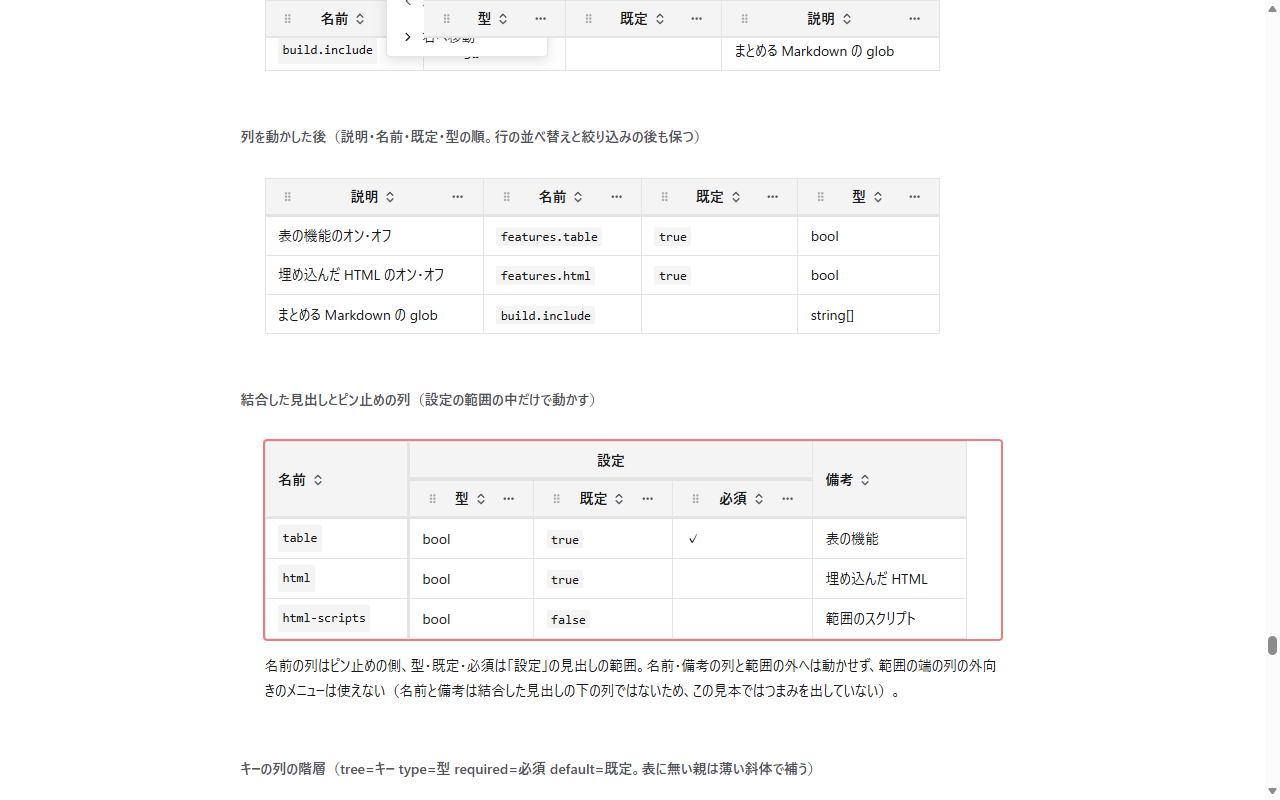
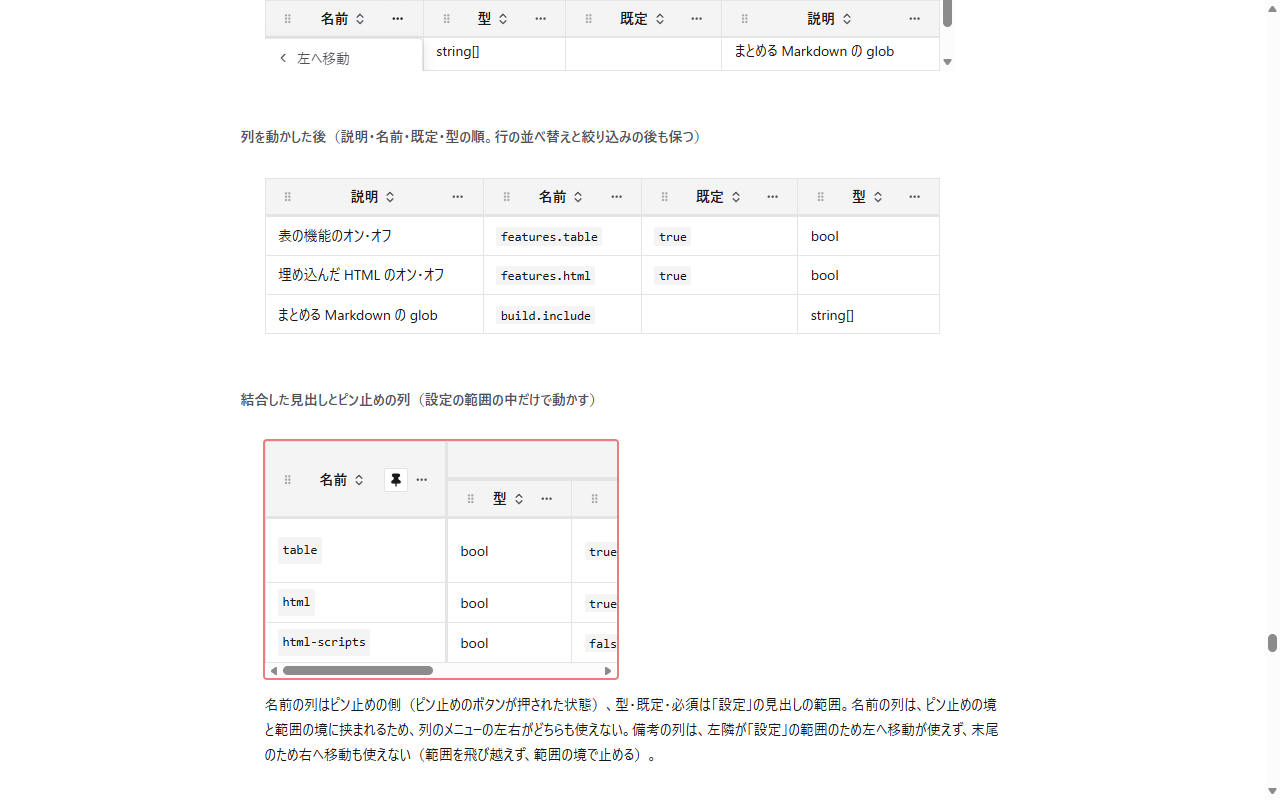
mock: 結合した見出しの外の列のメニュー・見本を表の下に置く・見本の切り替えの文言を修正する (#303)

diff --git a/dev/mock/components/table/index.html b/dev/mock/components/table/index.html
@@ -1339,17 +1339,17 @@
       <section aria-labelledby="state-303-reorder-groups">
         <h2 class="catalog-label" id="state-303-reorder-groups">結合した見出しとピン止めの列（設定の範囲の中だけで動かす）</h2>
         <article class="mdmark">
-<div class="mdmark-table" data-kind="data" data-reorder>
+<div class="mdmark-table" data-kind="data" data-reorder style="max-inline-size: 22rem;">
   <table tabindex="0" aria-label="表: 結合した見出しとピン止め">
-    <thead><tr><th rowspan="2" data-pinned="true" class="is-pinned-col is-pinned-edge"><span class="mdmark-th"><button class="mdmark-sort" type="button">名前<svg class="mdmark-icon" viewBox="0 0 24 24" aria-hidden="true"><path d="m7 15 5 5 5-5"/><path d="m7 9 5-5 5 5"/></svg></button></span></th><th colspan="3" scope="colgroup">設定</th><th rowspan="2"><span class="mdmark-th"><button class="mdmark-sort" type="button">備考<svg class="mdmark-icon" viewBox="0 0 24 24" aria-hidden="true"><path d="m7 15 5 5 5-5"/><path d="m7 9 5-5 5 5"/></svg></button></span></th></tr><tr><th data-group="設定"><span class="mdmark-th"><button class="mdmark-col-grip" type="button" aria-label="「型」の列を動かす" title="ドラッグで列を動かす"><svg class="mdmark-icon" viewBox="0 0 24 24" aria-hidden="true"><circle cx="9" cy="6" r="1"/><circle cx="15" cy="6" r="1"/><circle cx="9" cy="12" r="1"/><circle cx="15" cy="12" r="1"/><circle cx="9" cy="18" r="1"/><circle cx="15" cy="18" r="1"/></svg></button><button class="mdmark-sort" type="button">型<svg class="mdmark-icon" viewBox="0 0 24 24" aria-hidden="true"><path d="m7 15 5 5 5-5"/><path d="m7 9 5-5 5 5"/></svg></button><span class="mdmark-th-tools"><button class="mdmark-col-menu-toggle" type="button" aria-haspopup="menu" aria-expanded="false" aria-label="「型」の列のメニュー"><svg class="mdmark-icon" viewBox="0 0 24 24" aria-hidden="true"><circle cx="5" cy="12" r="1"/><circle cx="12" cy="12" r="1"/><circle cx="19" cy="12" r="1"/></svg></button><ul class="mdmark-col-menu" role="menu" hidden><li role="none"><button type="button" role="menuitem" data-move="left" disabled><svg class="mdmark-icon" viewBox="0 0 24 24" aria-hidden="true"><path d="m15 18-6-6 6-6"/></svg>左へ移動</button></li><li role="none"><button type="button" role="menuitem" data-move="right"><svg class="mdmark-icon" viewBox="0 0 24 24" aria-hidden="true"><path d="m9 18 6-6-6-6"/></svg>右へ移動</button></li></ul></span></span></th><th data-group="設定"><span class="mdmark-th"><button class="mdmark-col-grip" type="button" aria-label="「既定」の列を動かす" title="ドラッグで列を動かす"><svg class="mdmark-icon" viewBox="0 0 24 24" aria-hidden="true"><circle cx="9" cy="6" r="1"/><circle cx="15" cy="6" r="1"/><circle cx="9" cy="12" r="1"/><circle cx="15" cy="12" r="1"/><circle cx="9" cy="18" r="1"/><circle cx="15" cy="18" r="1"/></svg></button><button class="mdmark-sort" type="button">既定<svg class="mdmark-icon" viewBox="0 0 24 24" aria-hidden="true"><path d="m7 15 5 5 5-5"/><path d="m7 9 5-5 5 5"/></svg></button><span class="mdmark-th-tools"><button class="mdmark-col-menu-toggle" type="button" aria-haspopup="menu" aria-expanded="false" aria-label="「既定」の列のメニュー"><svg class="mdmark-icon" viewBox="0 0 24 24" aria-hidden="true"><circle cx="5" cy="12" r="1"/><circle cx="12" cy="12" r="1"/><circle cx="19" cy="12" r="1"/></svg></button><ul class="mdmark-col-menu" role="menu" hidden><li role="none"><button type="button" role="menuitem" data-move="left"><svg class="mdmark-icon" viewBox="0 0 24 24" aria-hidden="true"><path d="m15 18-6-6 6-6"/></svg>左へ移動</button></li><li role="none"><button type="button" role="menuitem" data-move="right"><svg class="mdmark-icon" viewBox="0 0 24 24" aria-hidden="true"><path d="m9 18 6-6-6-6"/></svg>右へ移動</button></li></ul></span></span></th><th data-group="設定"><span class="mdmark-th"><button class="mdmark-col-grip" type="button" aria-label="「必須」の列を動かす" title="ドラッグで列を動かす"><svg class="mdmark-icon" viewBox="0 0 24 24" aria-hidden="true"><circle cx="9" cy="6" r="1"/><circle cx="15" cy="6" r="1"/><circle cx="9" cy="12" r="1"/><circle cx="15" cy="12" r="1"/><circle cx="9" cy="18" r="1"/><circle cx="15" cy="18" r="1"/></svg></button><button class="mdmark-sort" type="button">必須<svg class="mdmark-icon" viewBox="0 0 24 24" aria-hidden="true"><path d="m7 15 5 5 5-5"/><path d="m7 9 5-5 5 5"/></svg></button><span class="mdmark-th-tools"><button class="mdmark-col-menu-toggle" type="button" aria-haspopup="menu" aria-expanded="false" aria-label="「必須」の列のメニュー"><svg class="mdmark-icon" viewBox="0 0 24 24" aria-hidden="true"><circle cx="5" cy="12" r="1"/><circle cx="12" cy="12" r="1"/><circle cx="19" cy="12" r="1"/></svg></button><ul class="mdmark-col-menu" role="menu" hidden><li role="none"><button type="button" role="menuitem" data-move="left"><svg class="mdmark-icon" viewBox="0 0 24 24" aria-hidden="true"><path d="m15 18-6-6 6-6"/></svg>左へ移動</button></li><li role="none"><button type="button" role="menuitem" data-move="right" disabled><svg class="mdmark-icon" viewBox="0 0 24 24" aria-hidden="true"><path d="m9 18 6-6-6-6"/></svg>右へ移動</button></li></ul></span></span></th></tr></thead>
+    <thead><tr><th rowspan="2" data-pinned="true" class="is-pinned-col is-pinned-edge"><span class="mdmark-th"><button class="mdmark-col-grip" type="button" aria-label="「名前」の列を動かす" title="ドラッグで列を動かす"><svg class="mdmark-icon" viewBox="0 0 24 24" aria-hidden="true"><circle cx="9" cy="6" r="1"/><circle cx="15" cy="6" r="1"/><circle cx="9" cy="12" r="1"/><circle cx="15" cy="12" r="1"/><circle cx="9" cy="18" r="1"/><circle cx="15" cy="18" r="1"/></svg></button><button class="mdmark-sort" type="button">名前<svg class="mdmark-icon" viewBox="0 0 24 24" aria-hidden="true"><path d="m7 15 5 5 5-5"/><path d="m7 9 5-5 5 5"/></svg></button><span class="mdmark-th-tools"><button class="mdmark-pin" type="button" aria-pressed="true" aria-label="「名前」の列までピン止め" title="「名前」の列までピン止め"><svg class="mdmark-icon" viewBox="0 0 24 24" aria-hidden="true"><path d="M12 17v5"/><path d="M9 10.76a2 2 0 0 1-1.11 1.79l-1.78.9A2 2 0 0 0 5 15.24V16a1 1 0 0 0 1 1h12a1 1 0 0 0 1-1v-.76a2 2 0 0 0-1.11-1.79l-1.78-.9A2 2 0 0 1 15 10.76V7a1 1 0 0 1 1-1 2 2 0 0 0 0-4H8a2 2 0 0 0 0 4 1 1 0 0 1 1 1z"/></svg></button><button class="mdmark-col-menu-toggle" type="button" aria-haspopup="menu" aria-expanded="false" aria-label="「名前」の列のメニュー"><svg class="mdmark-icon" viewBox="0 0 24 24" aria-hidden="true"><circle cx="5" cy="12" r="1"/><circle cx="12" cy="12" r="1"/><circle cx="19" cy="12" r="1"/></svg></button><ul class="mdmark-col-menu" role="menu" hidden><li role="none"><button type="button" role="menuitem" data-move="left" disabled><svg class="mdmark-icon" viewBox="0 0 24 24" aria-hidden="true"><path d="m15 18-6-6 6-6"/></svg>左へ移動</button></li><li role="none"><button type="button" role="menuitem" data-move="right" disabled><svg class="mdmark-icon" viewBox="0 0 24 24" aria-hidden="true"><path d="m9 18 6-6-6-6"/></svg>右へ移動</button></li></ul></span></span></th><th colspan="3" scope="colgroup">設定</th><th rowspan="2"><span class="mdmark-th"><button class="mdmark-col-grip" type="button" aria-label="「備考」の列を動かす" title="ドラッグで列を動かす"><svg class="mdmark-icon" viewBox="0 0 24 24" aria-hidden="true"><circle cx="9" cy="6" r="1"/><circle cx="15" cy="6" r="1"/><circle cx="9" cy="12" r="1"/><circle cx="15" cy="12" r="1"/><circle cx="9" cy="18" r="1"/><circle cx="15" cy="18" r="1"/></svg></button><button class="mdmark-sort" type="button">備考<svg class="mdmark-icon" viewBox="0 0 24 24" aria-hidden="true"><path d="m7 15 5 5 5-5"/><path d="m7 9 5-5 5 5"/></svg></button><span class="mdmark-th-tools"><button class="mdmark-col-menu-toggle" type="button" aria-haspopup="menu" aria-expanded="false" aria-label="「備考」の列のメニュー"><svg class="mdmark-icon" viewBox="0 0 24 24" aria-hidden="true"><circle cx="5" cy="12" r="1"/><circle cx="12" cy="12" r="1"/><circle cx="19" cy="12" r="1"/></svg></button><ul class="mdmark-col-menu" role="menu" hidden><li role="none"><button type="button" role="menuitem" data-move="left" disabled><svg class="mdmark-icon" viewBox="0 0 24 24" aria-hidden="true"><path d="m15 18-6-6 6-6"/></svg>左へ移動</button></li><li role="none"><button type="button" role="menuitem" data-move="right" disabled><svg class="mdmark-icon" viewBox="0 0 24 24" aria-hidden="true"><path d="m9 18 6-6-6-6"/></svg>右へ移動</button></li></ul></span></span></th></tr><tr><th data-group="設定"><span class="mdmark-th"><button class="mdmark-col-grip" type="button" aria-label="「型」の列を動かす" title="ドラッグで列を動かす"><svg class="mdmark-icon" viewBox="0 0 24 24" aria-hidden="true"><circle cx="9" cy="6" r="1"/><circle cx="15" cy="6" r="1"/><circle cx="9" cy="12" r="1"/><circle cx="15" cy="12" r="1"/><circle cx="9" cy="18" r="1"/><circle cx="15" cy="18" r="1"/></svg></button><button class="mdmark-sort" type="button">型<svg class="mdmark-icon" viewBox="0 0 24 24" aria-hidden="true"><path d="m7 15 5 5 5-5"/><path d="m7 9 5-5 5 5"/></svg></button><span class="mdmark-th-tools"><button class="mdmark-col-menu-toggle" type="button" aria-haspopup="menu" aria-expanded="false" aria-label="「型」の列のメニュー"><svg class="mdmark-icon" viewBox="0 0 24 24" aria-hidden="true"><circle cx="5" cy="12" r="1"/><circle cx="12" cy="12" r="1"/><circle cx="19" cy="12" r="1"/></svg></button><ul class="mdmark-col-menu" role="menu" hidden><li role="none"><button type="button" role="menuitem" data-move="left" disabled><svg class="mdmark-icon" viewBox="0 0 24 24" aria-hidden="true"><path d="m15 18-6-6 6-6"/></svg>左へ移動</button></li><li role="none"><button type="button" role="menuitem" data-move="right"><svg class="mdmark-icon" viewBox="0 0 24 24" aria-hidden="true"><path d="m9 18 6-6-6-6"/></svg>右へ移動</button></li></ul></span></span></th><th data-group="設定"><span class="mdmark-th"><button class="mdmark-col-grip" type="button" aria-label="「既定」の列を動かす" title="ドラッグで列を動かす"><svg class="mdmark-icon" viewBox="0 0 24 24" aria-hidden="true"><circle cx="9" cy="6" r="1"/><circle cx="15" cy="6" r="1"/><circle cx="9" cy="12" r="1"/><circle cx="15" cy="12" r="1"/><circle cx="9" cy="18" r="1"/><circle cx="15" cy="18" r="1"/></svg></button><button class="mdmark-sort" type="button">既定<svg class="mdmark-icon" viewBox="0 0 24 24" aria-hidden="true"><path d="m7 15 5 5 5-5"/><path d="m7 9 5-5 5 5"/></svg></button><span class="mdmark-th-tools"><button class="mdmark-col-menu-toggle" type="button" aria-haspopup="menu" aria-expanded="false" aria-label="「既定」の列のメニュー"><svg class="mdmark-icon" viewBox="0 0 24 24" aria-hidden="true"><circle cx="5" cy="12" r="1"/><circle cx="12" cy="12" r="1"/><circle cx="19" cy="12" r="1"/></svg></button><ul class="mdmark-col-menu" role="menu" hidden><li role="none"><button type="button" role="menuitem" data-move="left"><svg class="mdmark-icon" viewBox="0 0 24 24" aria-hidden="true"><path d="m15 18-6-6 6-6"/></svg>左へ移動</button></li><li role="none"><button type="button" role="menuitem" data-move="right"><svg class="mdmark-icon" viewBox="0 0 24 24" aria-hidden="true"><path d="m9 18 6-6-6-6"/></svg>右へ移動</button></li></ul></span></span></th><th data-group="設定"><span class="mdmark-th"><button class="mdmark-col-grip" type="button" aria-label="「必須」の列を動かす" title="ドラッグで列を動かす"><svg class="mdmark-icon" viewBox="0 0 24 24" aria-hidden="true"><circle cx="9" cy="6" r="1"/><circle cx="15" cy="6" r="1"/><circle cx="9" cy="12" r="1"/><circle cx="15" cy="12" r="1"/><circle cx="9" cy="18" r="1"/><circle cx="15" cy="18" r="1"/></svg></button><button class="mdmark-sort" type="button">必須<svg class="mdmark-icon" viewBox="0 0 24 24" aria-hidden="true"><path d="m7 15 5 5 5-5"/><path d="m7 9 5-5 5 5"/></svg></button><span class="mdmark-th-tools"><button class="mdmark-col-menu-toggle" type="button" aria-haspopup="menu" aria-expanded="false" aria-label="「必須」の列のメニュー"><svg class="mdmark-icon" viewBox="0 0 24 24" aria-hidden="true"><circle cx="5" cy="12" r="1"/><circle cx="12" cy="12" r="1"/><circle cx="19" cy="12" r="1"/></svg></button><ul class="mdmark-col-menu" role="menu" hidden><li role="none"><button type="button" role="menuitem" data-move="left"><svg class="mdmark-icon" viewBox="0 0 24 24" aria-hidden="true"><path d="m15 18-6-6 6-6"/></svg>左へ移動</button></li><li role="none"><button type="button" role="menuitem" data-move="right" disabled><svg class="mdmark-icon" viewBox="0 0 24 24" aria-hidden="true"><path d="m9 18 6-6-6-6"/></svg>右へ移動</button></li></ul></span></span></th></tr></thead>
     <tbody>
-      <tr><td class="is-pinned-col is-pinned-edge"><code>table</code></td><td>bool</td><td><code>true</code></td><td>✓</td><td>表の機能</td></tr>
+      <tr><td class="is-pinned-col is-pinned-edge"><code>table</code></td><td>bool</td><td><code>true</code></td><td>✓</td><td>表の並べ替え・絞り込み・ピン止めのオン・オフ</td></tr>
       <tr><td class="is-pinned-col is-pinned-edge"><code>html</code></td><td>bool</td><td><code>true</code></td><td></td><td>埋め込んだ HTML</td></tr>
       <tr><td class="is-pinned-col is-pinned-edge"><code>html-scripts</code></td><td>bool</td><td><code>false</code></td><td></td><td>範囲のスクリプト</td></tr>
     </tbody>
   </table>
 </div>
-<p>名前の列はピン止めの側、型・既定・必須は「設定」の見出しの範囲。名前・備考の列と範囲の外へは動かせず、範囲の端の列の外向きのメニューは使えない（名前と備考は結合した見出しの下の列ではないため、この見本ではつまみを出していない）。</p>
+<p>名前の列はピン止めの側（ピン止めのボタンが押された状態）、型・既定・必須は「設定」の見出しの範囲。名前の列は、ピン止めの境と範囲の境に挟まれるため、列のメニューの左右がどちらも使えない。備考の列は、左隣が「設定」の範囲のため左へ移動が使えず、末尾のため右へ移動も使えない（範囲を飛び越えず、範囲の境で止める）。</p>
         </article>
       </section>
 
@@ -1511,9 +1511,9 @@
 
       <!-- #250 見本: 見出しの下のタブを見本にし、既定で表示する（要件の推奨 A） -->
       <section aria-labelledby="state-303-tree-example">
-        <h2 class="catalog-label" id="state-303-tree-example">YAML の見本と連動する（example=設定の見本。表の行を押すと見本の行に色を付け、見本の行を押すと表の行を選ぶ）</h2>
+        <h2 class="catalog-label" id="state-303-tree-example">YAML の見本と連動する（example=設定の見本。見本は表の下に置く。表の行を押すと見本の行に色を付け、見本の行を押すと表の行を選ぶ）</h2>
         <article class="mdmark">
-<div class="mdmark-tree-bar"><button class="mdmark-tree-example-toggle" type="button" aria-pressed="true">見本を表示</button></div>
+<div class="mdmark-tree-bar"><button class="mdmark-tree-example-toggle" type="button" aria-expanded="true" aria-controls="t303a-example">見本を隠す</button></div>
 <div class="mdmark-tree-layout">
 <div class="mdmark-table" data-kind="data" data-tree>
   <table tabindex="0" aria-label="表: キーの階層と見本">
@@ -1530,7 +1530,7 @@
     </tbody>
   </table>
 </div>
-<aside class="mdmark-tree-example" aria-label="見本: 設定の見本">
+<aside class="mdmark-tree-example" id="t303a-example" aria-label="見本: 設定の見本">
 <div class="mdmark-tabs">
   <div class="mdmark-tablist" role="tablist" aria-label="設定の見本">
     <button class="mdmark-tab" type="button" role="tab" id="t303a-tab-0" aria-selected="false" aria-controls="t303a-panel-0" tabindex="-1">最小</button>
@@ -1552,7 +1552,7 @@
       <section aria-labelledby="state-303-tree-example-missing">
         <h2 class="catalog-label" id="state-303-tree-example-missing">選んだキーが開いているタブの見本に無い（最小のタブで aliases の type を選んだ。見本に色を付けない）</h2>
         <article class="mdmark">
-<div class="mdmark-tree-bar"><button class="mdmark-tree-example-toggle" type="button" aria-pressed="true">見本を表示</button></div>
+<div class="mdmark-tree-bar"><button class="mdmark-tree-example-toggle" type="button" aria-expanded="true" aria-controls="t303b-example">見本を隠す</button></div>
 <div class="mdmark-tree-layout">
 <div class="mdmark-table" data-kind="data" data-tree>
   <table tabindex="0" aria-label="表: キーの階層と見本">
@@ -1569,7 +1569,7 @@
     </tbody>
   </table>
 </div>
-<aside class="mdmark-tree-example" aria-label="見本: 設定の見本">
+<aside class="mdmark-tree-example" id="t303b-example" aria-label="見本: 設定の見本">
 <div class="mdmark-tabs">
   <div class="mdmark-tablist" role="tablist" aria-label="設定の見本">
     <button class="mdmark-tab" type="button" role="tab" id="t303b-tab-0" aria-selected="true" aria-controls="t303b-panel-0" tabindex="0">最小</button>
@@ -1589,9 +1589,9 @@
 
       <!-- #250 見本の表示の切り替え -->
       <section aria-labelledby="state-303-tree-example-hidden">
-        <h2 class="catalog-label" id="state-303-tree-example-hidden">見本を隠した（見本を表示のボタンを押した。表が見本の幅まで広がる）</h2>
+        <h2 class="catalog-label" id="state-303-tree-example-hidden">見本を隠した（見本を隠すのボタンを押した。ボタンの文言が「見本を表示」に変わる）</h2>
         <article class="mdmark">
-<div class="mdmark-tree-bar"><button class="mdmark-tree-example-toggle" type="button" aria-pressed="false">見本を表示</button></div>
+<div class="mdmark-tree-bar"><button class="mdmark-tree-example-toggle" type="button" aria-expanded="false" aria-controls="t303c-example">見本を表示</button></div>
 <div class="mdmark-tree-layout is-example-hidden">
 <div class="mdmark-table" data-kind="data" data-tree>
   <table tabindex="0" aria-label="表: キーの階層と見本">
@@ -1608,7 +1608,7 @@
     </tbody>
   </table>
 </div>
-<aside class="mdmark-tree-example" aria-label="見本: 設定の見本">
+<aside class="mdmark-tree-example" id="t303c-example" aria-label="見本: 設定の見本">
 <div class="mdmark-tabs">
   <div class="mdmark-tablist" role="tablist" aria-label="設定の見本">
     <button class="mdmark-tab" type="button" role="tab" id="t303c-tab-0" aria-selected="true" aria-controls="t303c-panel-0" tabindex="0">最小</button>

diff --git a/dev/mock/refs/303/assets/table.js b/dev/mock/refs/303/assets/table.js
@@ -83,23 +83,9 @@
         moveColumn(table, columnIndexOf(dragged), columnIndexOf(th), th.classList.contains("is-drop-after"));
       });
 
-      // 列のメニュー: ⋯ で開閉し、Esc で閉じる
       const toggle = th.querySelector(".mdmark-col-menu-toggle");
       const menu = th.querySelector(".mdmark-col-menu");
       if (!toggle || !menu) continue;
-      toggle.addEventListener("click", () => {
-        const open = toggle.getAttribute("aria-expanded") !== "true";
-        toggle.setAttribute("aria-expanded", String(open));
-        menu.hidden = !open;
-        if (open) menu.querySelector("button:not(:disabled)")?.focus();
-      });
-      menu.addEventListener("keydown", (event) => {
-        if (event.key === "Escape") {
-          toggle.setAttribute("aria-expanded", "false");
-          menu.hidden = true;
-          toggle.focus();
-        }
-      });
       for (const button of menu.querySelectorAll("[data-move]")) {
         button.addEventListener("click", () => {
           const index = columnIndexOf(th);
@@ -111,6 +97,25 @@
           toggle.focus();
         });
       }
+    }
+    // 列のメニュー: ⋯ で開閉し、Esc で閉じる（多段の見出しの上の段の列も含む）
+    for (const th of table.tHead.querySelectorAll("th")) {
+      const toggle = th.querySelector(".mdmark-col-menu-toggle");
+      const menu = th.querySelector(".mdmark-col-menu");
+      if (!toggle || !menu) continue;
+      toggle.addEventListener("click", () => {
+        const open = toggle.getAttribute("aria-expanded") !== "true";
+        toggle.setAttribute("aria-expanded", String(open));
+        menu.hidden = !open;
+        if (open) (menu.querySelector("button:not(:disabled)") ?? menu.querySelector("button"))?.focus();
+      });
+      menu.addEventListener("keydown", (event) => {
+        if (event.key === "Escape") {
+          toggle.setAttribute("aria-expanded", "false");
+          menu.hidden = true;
+          toggle.focus();
+        }
+      });
     }
     refreshMenus(table);
   }
@@ -221,8 +226,9 @@
       }
       const exampleToggle = layout.parentElement.querySelector(".mdmark-tree-example-toggle");
       exampleToggle?.addEventListener("click", () => {
-        const shown = exampleToggle.getAttribute("aria-pressed") === "true";
-        exampleToggle.setAttribute("aria-pressed", String(!shown));
+        const shown = exampleToggle.getAttribute("aria-expanded") === "true";
+        exampleToggle.setAttribute("aria-expanded", String(!shown));
+        exampleToggle.textContent = shown ? "見本を表示" : "見本を隠す";
         layout.classList.toggle("is-example-hidden", shown);
       });
     }

diff --git a/dev/mock/refs/303/assets/table.css b/dev/mock/refs/303/assets/table.css
@@ -284,23 +284,13 @@
 
   /* ---- YAML の見本 ---- */
 
-  /* 表と見本を横に並べる。狭い幅では見本を表の下へ回す */
+  /* 見本は表の下に置き、表は本文の幅を全て使う */
   .mdmark-tree-layout {
     display: grid;
-    grid-template-columns: minmax(0, 3fr) minmax(0, 2fr);
     gap: var(--mdmark-space);
-    align-items: start;
-  }
-  .mdmark-tree-layout.is-example-hidden {
-    grid-template-columns: minmax(0, 1fr);
   }
   .mdmark-tree-layout.is-example-hidden .mdmark-tree-example {
     display: none;
-  }
-  @media (max-width: 48rem) {
-    .mdmark-tree-layout {
-      grid-template-columns: minmax(0, 1fr);
-    }
   }
 
   /* 見本の表示を切り替えるボタン: 表の上の帯に置く */
@@ -317,9 +307,6 @@
     font: inherit;
     font-size: 0.875rem;
     cursor: pointer;
-  }
-  .mdmark-tree-example-toggle[aria-pressed="true"] {
-    background: var(--mdmark-color-surface);
   }
   .mdmark-tree-bar {
     display: flex;
